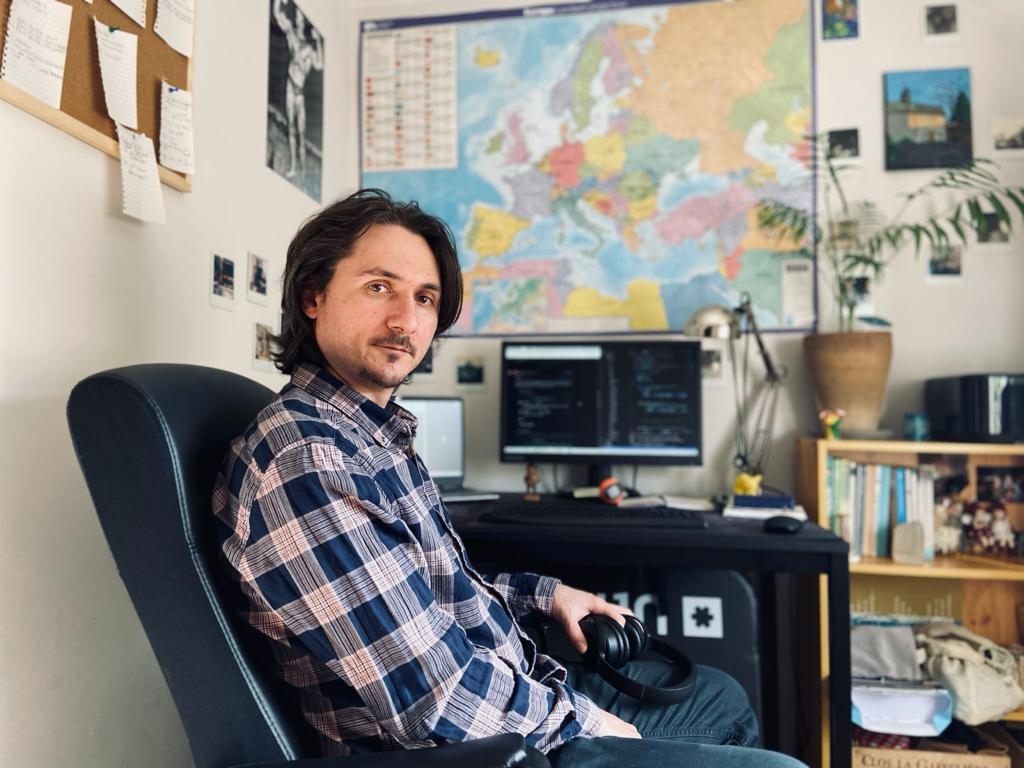
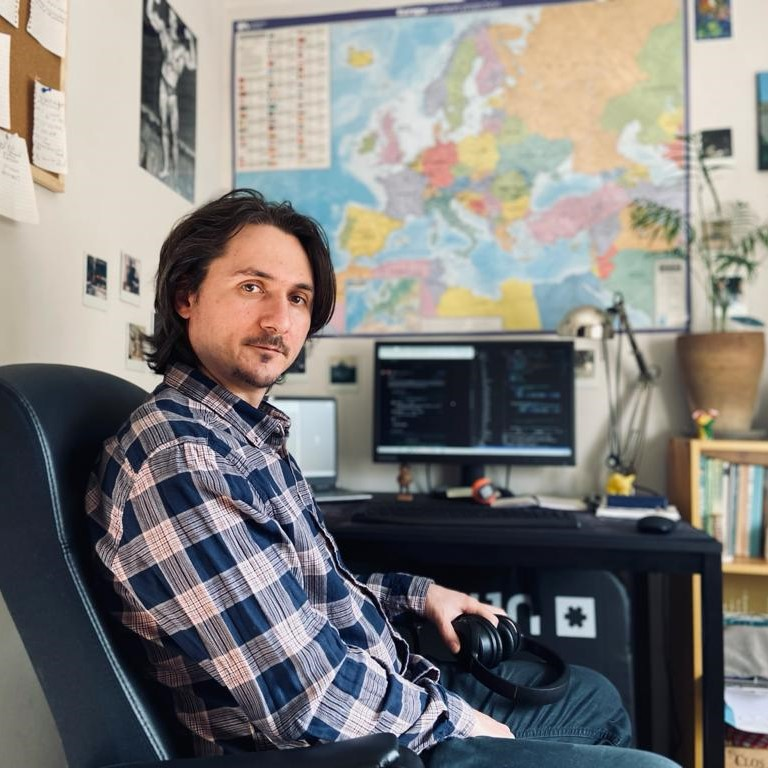
background picture and bits

diff --git a/src/template.html b/src/template.html
@@ -78,7 +78,9 @@
                 alt="Profile Image"
                 style="vertical-align: middle;
                 width: 400px;
-                height: 300px"
+                height: 400px;
+                box-shadow: 10px 10px 5px rgb(12, 12, 12)!important;
+                border: 5px solid "
               />
             </div>
           </div>
@@ -289,7 +291,7 @@
 
         <!-- If you give me some credit, will be huge for me :) -->
         <p class="footer__text">
-          Thanks to <a href="https://github.com/cobidev" target="_blank">Jacobo Martínez</a>
+          <a href="https://github.com/cobidev" target="_blank">Simplefolio</a>
           </a>
         </p>
 

diff --git a/src/style/sections/_hero.scss b/src/style/sections/_hero.scss
@@ -18,7 +18,7 @@
   // If you want to set a background image on the hero section, uncomment these with yout custom image
 
   // background: url('/src/assets/skyhigh.jpg');
-  background-image: url('https://images.unsplash.com/photo-1484417894907-623942c8ee29?ixid=MXwxMjA3fDB8MHxwaG90by1wYWdlfHx8fGVufDB8fHw%3D&ixlib=rb-1.2.1&auto=format&fit=crop&w=889&q=80');
+  background-image: url('https://images.unsplash.com/photo-1614862977338-ede314f47a00?ixlib=rb-1.2.1&ixid=MXwxMjA3fDB8MHxwaG90by1wYWdlfHx8fGVufDB8fHw%3D&auto=format&fit=crop&w=1510&q=80');
   background-position: center;
   background-size: cover;
 

diff --git a/src/style/sections/_projects.scss b/src/style/sections/_projects.scss
@@ -52,6 +52,7 @@
     &__image {
       width: 90%;
       margin: 0 auto;
+      
 
       @include respond(tab-land) {
         width: 100%;
@@ -59,7 +60,7 @@
       }
 
       & .thumbnail {
-        border: none;
+        border: 3px solid $secondary-color;
         box-shadow: 0 3px 6px rgba(0, 0, 0, 0.16), 0 3px 6px rgba(0, 0, 0, 0.23);
         transition: all 0.2s ease-out;
         box-shadow: 0 6px 10px rgba(0, 0, 0, 0.08), 0 0 6px rgba(0, 0, 0, 0.05);
